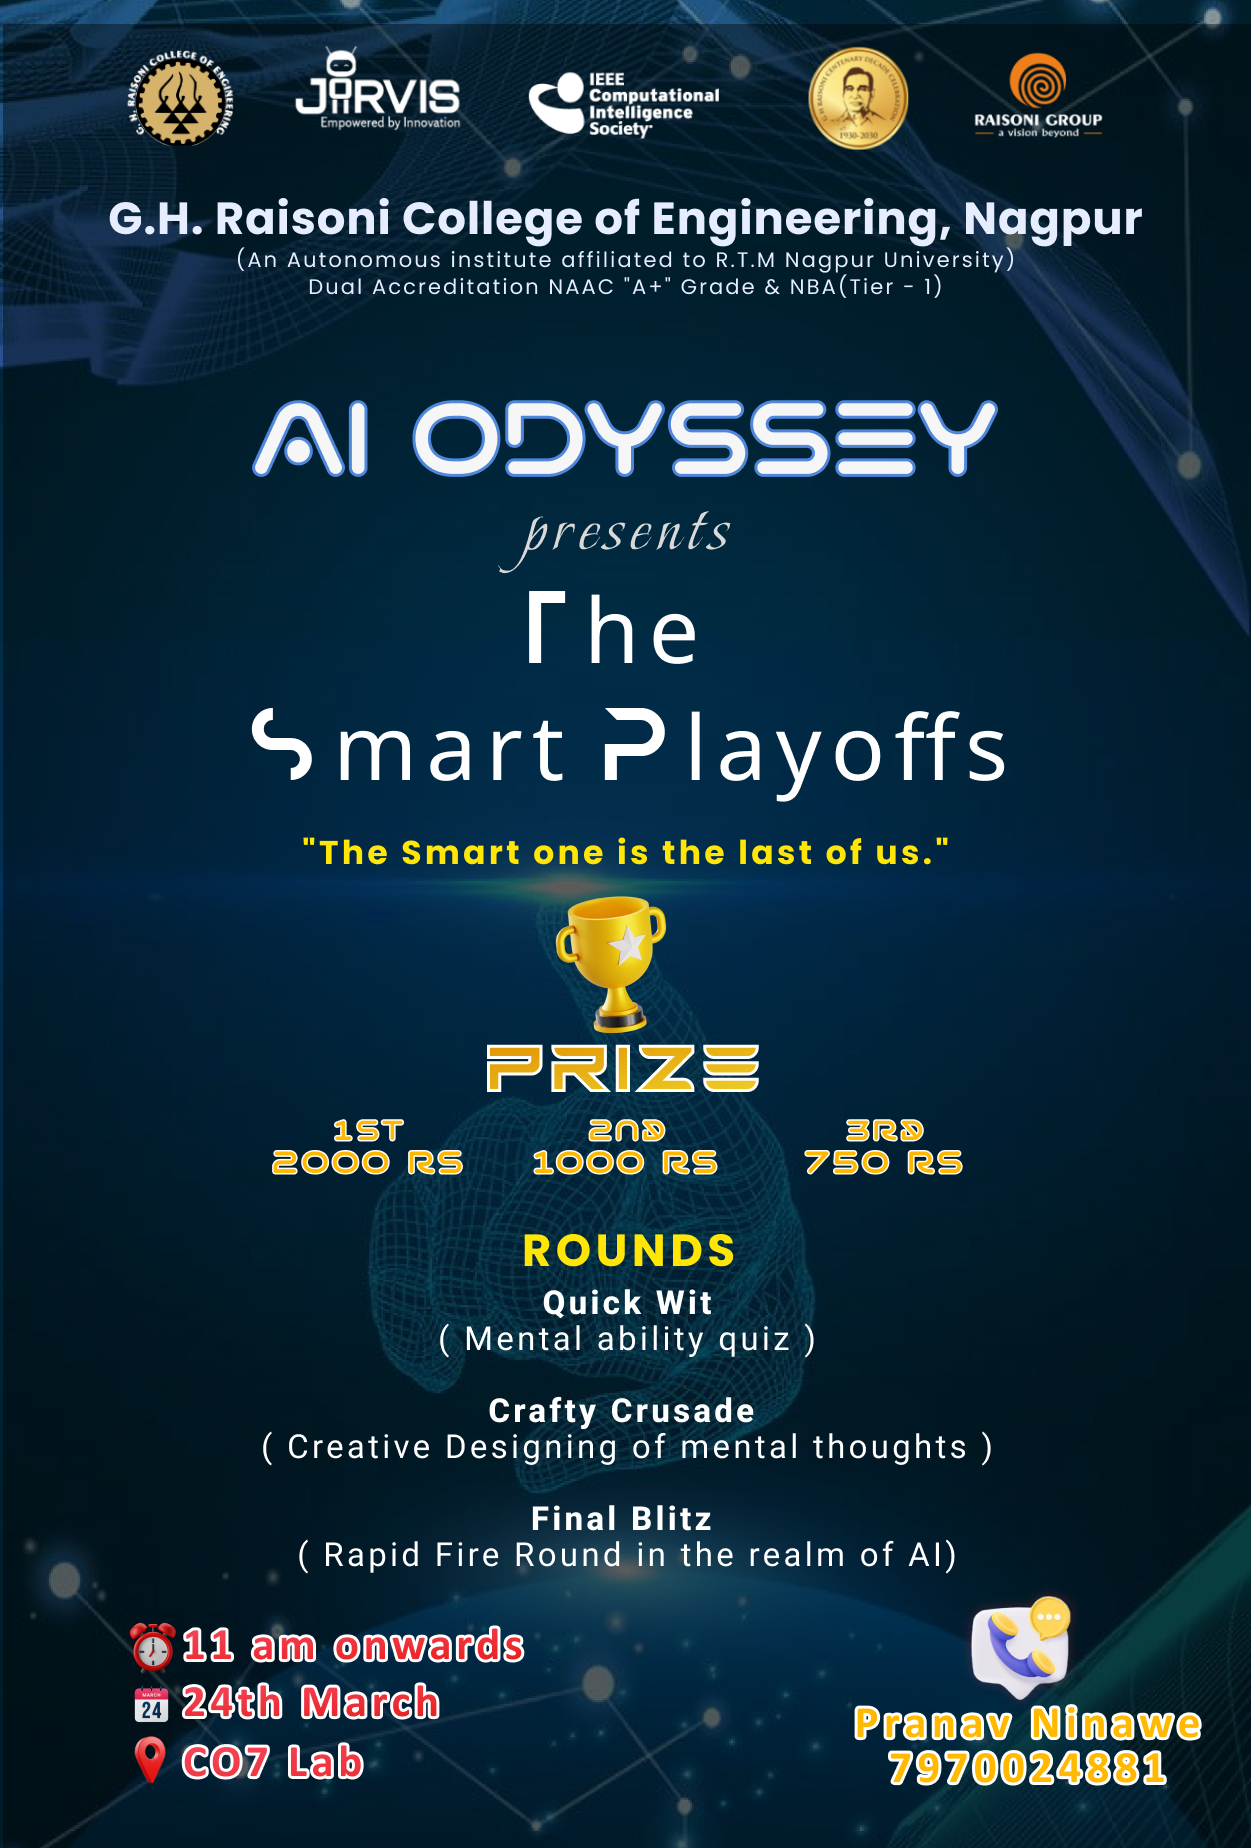
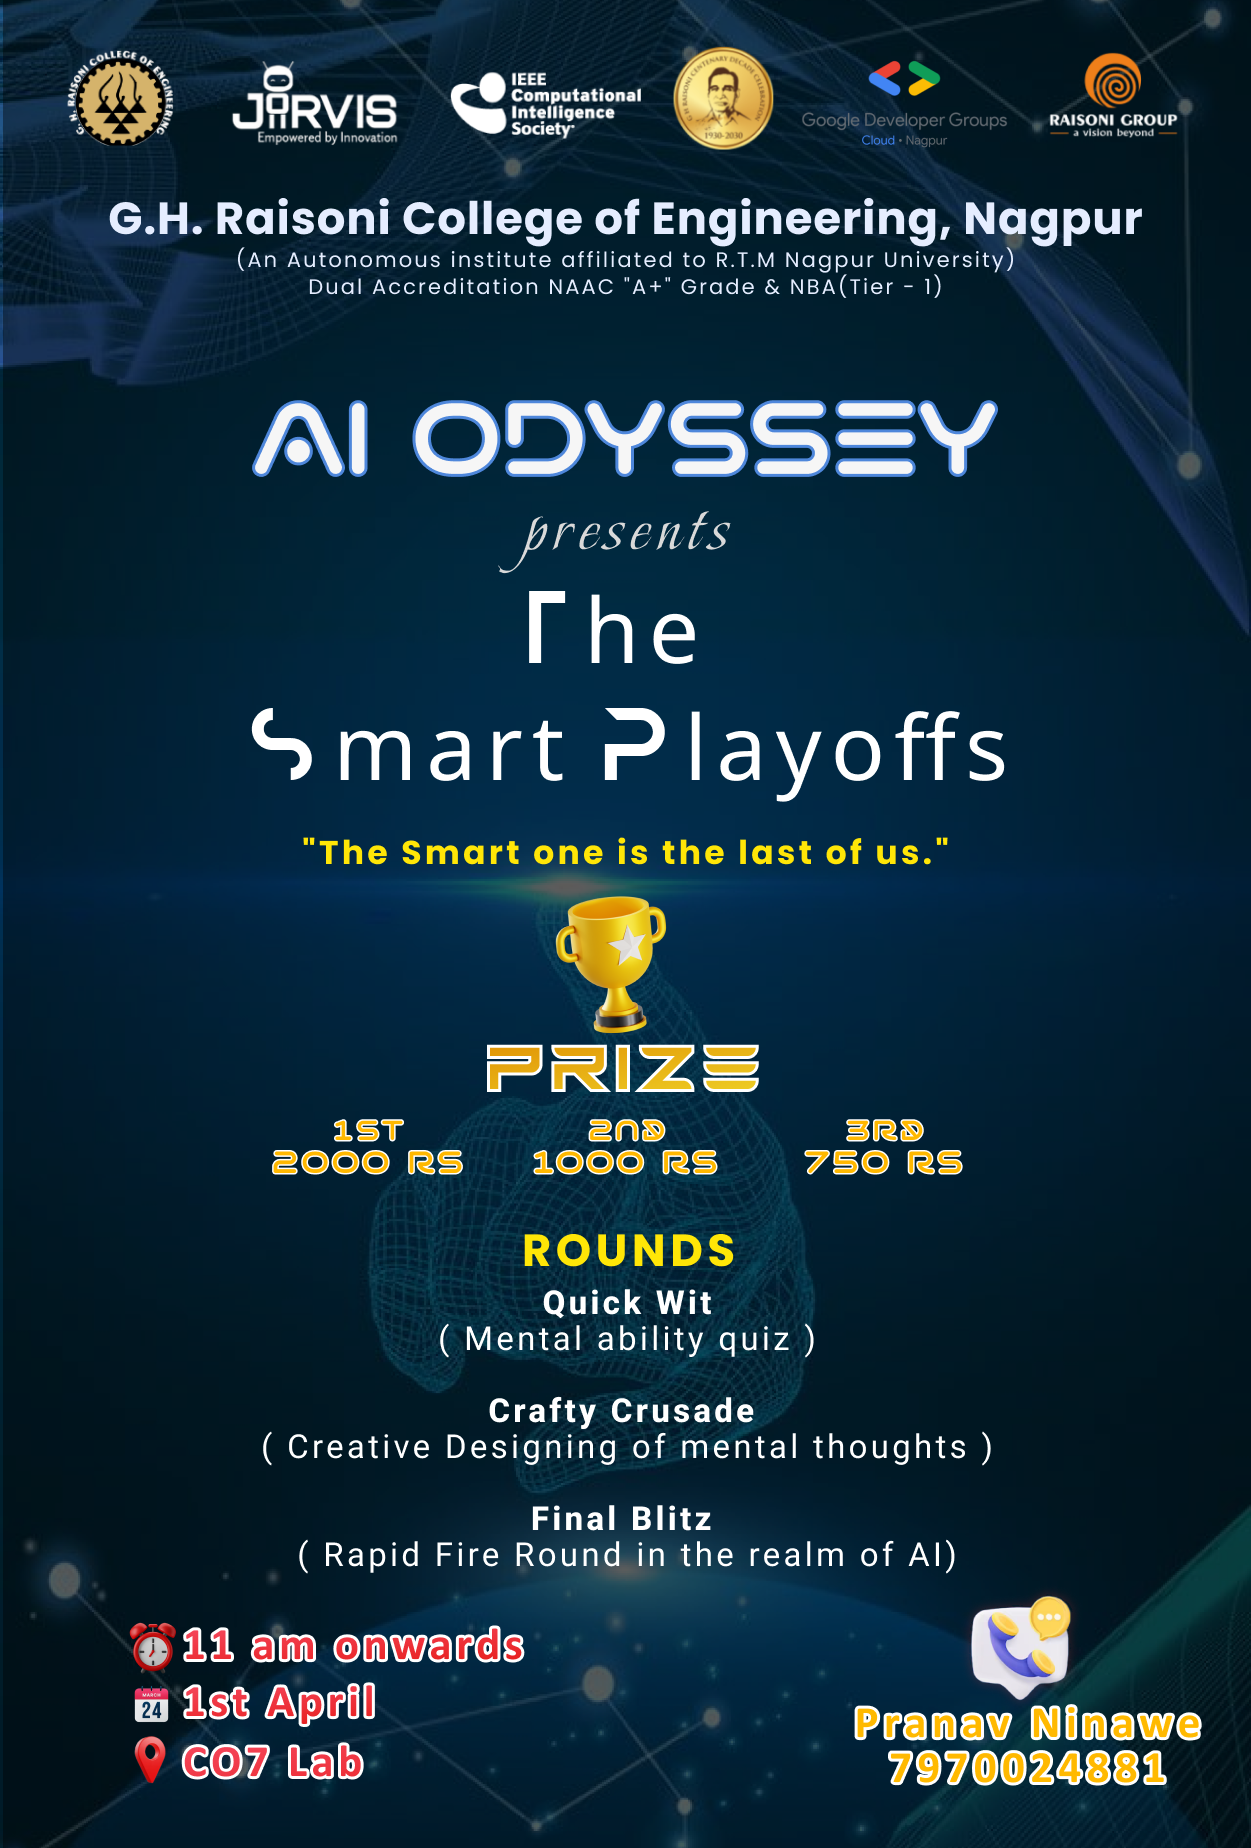
All tasks Done

diff --git a/src/Components/EventDetails.js b/src/Components/EventDetails.js
@@ -4,7 +4,7 @@ import styles from "../Assets/Styles/EventDetails.module.scss";
 import Heading from "./Heading";
 
 import treasurehunt from "../Assets/Images/Events/TreasureHunt.png";
-import aiwizard from "../Assets/Images/Events/AiWIzard.png";
+import aiwizard from "../Assets/Images/Events/AiWizard.png";
 import mindscape from "../Assets/Images/Events/Mindscape.jpeg";
 import smartplayoffs from "../Assets/Images/Events/SmartPlayofs.png";
 // import innovationjunction from "../Assets/Images/Events/InnovationJunction.mp4";
@@ -14,42 +14,42 @@ const EventsInfoData = [
     {
         id: 1,
         name: "Scan & Hunt",
-        desc: "Lorem ipsum dolor sit amet consectetur adipisicing elit. Autem quos culpa, totam voluptatibus rerum hic ea recusandae exercitationem, earum harum ex magni vitae provident suscipit, ipsam odio neque repudiandae! Cumque.",
+        desc: "Scan & Hunt is an intriguing game that wakes up the detective inside of you as you go on searching answers for the riddles.Each team of three to five members will compete with one another by unravelling the mystery inside of a QR code in three rounds adding more mystery and complexity than the previous rounds.",
         img: treasurehunt,
-        url: "https://drive.google.com/file/d/1-Ka_06a0kSDklvogjf-VdCYXeo9Cpxwm/view",
+        url: "",
     },
     {
         id: 1,
         name: "AI Wizard",
-        desc: "Lorem ipsum dolor sit amet consectetur adipisicing elit. Autem quos culpa, totam voluptatibus rerum hic ea recusandae exercitationem, earum harum ex magni vitae provident suscipit, ipsam odio neque repudiandae! Cumque.",
+        desc: "A wizard is the one who has magical powers. Are you the Dumbledore of AI? Let's find it out in our exciting game of AI Wizard. A member from each team will be competing with the other teams in three rounds ranging from their creativity in AI, their proficiency in AI, to their vision in AI.",
         img: aiwizard,
-        url: "https://onedrive.live.com/?authkey=%21AGls%2DbL39uUS1eQ&cid=4DFAFCD7B14B5170&id=4DFAFCD7B14B5170%211471&parId=4DFAFCD7B14B5170%211466&o=OneUp",
+        url: "",
     },
     {
         id: 1,
         name: "Mindscape",
-        desc: "Lorem ipsum dolor sit amet consectetur adipisicing elit. Autem quos culpa, totam voluptatibus rerum hic ea recusandae exercitationem, earum harum ex magni vitae provident suscipit, ipsam odio neque repudiandae! Cumque.",
+        desc: "The most inquisitive competition that will electrify your inventive minds with mind twisting quizzes is here. Each team consisting of three to four members will compete against each other in this competition which will be held in three rounds with each round more exciting and challenging than the previous one.",
         img: mindscape,
         url: "",
     },
     {
         id: 1,
         name: "Smart Playoffs",
-        desc: "Lorem ipsum dolor sit amet consectetur adipisicing elit. Autem quos culpa, totam voluptatibus rerum hic ea recusandae exercitationem, earum harum ex magni vitae provident suscipit, ipsam odio neque repudiandae! Cumque.",
+        desc: "Darwin’s theory about survival of the fittest also applies in the tech world where the smartest one is the last of us. The Smart Playoffs is a virtual ethical implication of AI in humans. In this valiant battle get ready to sharpen your mental ability and problem solving skills, followed by a creative brainstorm showing your photographic and designing skills and then a  rapid fire round involving the latest trends in the field of AI.",
         img: smartplayoffs,
         url: "",
     },
     {
         id: 1,
         name: "Innovation Junction",
-        desc: "Lorem ipsum dolor sit amet consectetur adipisicing elit. Autem quos culpa, totam voluptatibus rerum hic ea recusandae exercitationem, earum harum ex magni vitae provident suscipit, ipsam odio neque repudiandae! Cumque.",
+        desc: "Introducing Innovation Junction, the game that promises to unlock your creativity and imagination like never before! Get ready to generate game-changing ideas and tap into your inner innovator with this ultimate idea-generation experience. In this fast-paced game, players will be challenged to come up with innovative solutions to a variety of prompts and scenarios, from business challenges to social issues and beyond. With each round, players will have a limited amount of time to brainstorm and pitch their ideas. ",
         img: treasurehunt,
         url: "",
     },
     {
         id: 1,
         name: "Go Algo",
-        desc: "Lorem ipsum dolor sit amet consectetur adipisicing elit. Autem quos culpa, totam voluptatibus rerum hic ea recusandae exercitationem, earum harum ex magni vitae provident suscipit, ipsam odio neque repudiandae! Cumque.",
+        desc: "This competition is for anyone with a passion for programming and are ready to unleash their programming prowess and take on the ultimate challenge in our thrilling algorithm game! The competition is divided into three rounds where shuffled steps of the algorithm will be provided and one teammate must correct the sequence while the others complete the code. It's a race against the clock, and teamwork is the key to success!",
         img: goalgo,
         url: "",
     },
@@ -57,7 +57,7 @@ const EventsInfoData = [
 
 const EventDetails = () => {
     return (
-        <div id="events" className={styles.eventDetailsRoot}>
+        <div className={styles.eventDetailsRoot}>
             <Heading backText="Events">Events</Heading>
 
             <div className={styles.eventsDetailsMain}>

diff --git a/src/Components/Trailer.js b/src/Components/Trailer.js
@@ -17,15 +17,14 @@ const Trailer = () => {
         <div className={classes.rootTrailer}>
             <div className={classes.videoAndDatetime}>
                 <iframe
-                    data-aos="fade-up"
-                    // width="560"
-                    // height="315"
-                    src="https://www.youtube.com/embed/Gv2beqTqFNA"
+                    width="560"
+                    height="315"
+                    src="https://www.youtube.com/embed/FGJPiPmD2yo"
                     title="YouTube video player"
                     frameborder="0"
                     allow="accelerometer; autoplay; clipboard-write; encrypted-media; gyroscope; picture-in-picture; web-share"
                     allowfullscreen
-                />
+                ></iframe>
 
                 <div className={classes.datetimeContainer} data-aos="fade-up">
                     <div className={classes.eventMetas}>
@@ -81,7 +80,9 @@ const Trailer = () => {
                                 />
                             </svg>
                             <div>
-                                <p>3rd Floor, F-21, G.H.R.C.E. Nagpur</p>
+                                <p>
+                                    G.H. Raisoni College of Engineering Nagpur
+                                </p>
                             </div>
                         </div>
                     </div>

diff --git a/src/Assets/Styles/Presenters.module.scss b/src/Assets/Styles/Presenters.module.scss
@@ -40,6 +40,15 @@
             }
         }
 
+        .coe {
+            display: block;
+
+            img {
+                height: auto;
+                width: 100px;
+                margin: 30px;
+            }
+        }
         .ieee {
             display: block;
 
@@ -88,6 +97,46 @@
             //     height: auto;
             //     margin: 20px;
             // }
+
+            .ghrce {
+                display: block;
+
+                img {
+                    width: 100px;
+                    height: auto;
+                    margin: 30px;
+                }
+            }
+
+            .rgi {
+                display: block;
+
+                img {
+                    height: 85px;
+                    width: auto;
+                    margin: 30px;
+                }
+            }
+
+            .coe {
+                display: block;
+
+                img {
+                    height: auto;
+                    width: 100px;
+                    margin: 30px;
+                }
+            }
+
+            .ieee {
+                display: block;
+
+                img {
+                    height: 50px;
+                    width: auto;
+                    margin: 30px;
+                }
+            }
 
             .jarvis {
                 img {

diff --git a/src/Assets/Styles/Trailer.module.scss b/src/Assets/Styles/Trailer.module.scss
@@ -184,13 +184,34 @@
             display: flex;
             flex-direction: column;
             justify-content: space-between;
-            align-items: center;
+            // align-items: flex-start;
             padding-bottom: 50px;
 
             iframe {
+                // margin-left: 30px;
+                // padding-left: 20px;
                 width: 330px;
                 height: 186px;
                 margin-bottom: 30px;
+            }
+
+            .datetimeContainer {
+                // margin-left: 16px;
+                .eventMetas {
+                    padding: 0px;
+                    .date,
+                    .time,
+                    .venue {
+                        padding: 2px;
+                        svg {
+                            width: 20px;
+                        }
+
+                        p {
+                            font-size: 12px;
+                        }
+                    }
+                }
             }
         }
 

diff --git a/src/Components/Presenters.js b/src/Components/Presenters.js
@@ -8,6 +8,7 @@ import rgi from "../Assets/Images/Logos/RGi.png";
 import ieee from "../Assets/Images/Logos/IEEE_CIS_logo_White.png";
 import jarvis from "../Assets/Images/Logos/JARVIS.png";
 import gdgc from "../Assets/Images/Logos/GDGC.png";
+import coe from "../Assets/Images/Logos/coeaiml.png";
 
 import classes from "../Assets/Styles/Presenters.module.scss";
 
@@ -20,6 +21,9 @@ const Presenters = () => {
                 </div>
                 <div className={classes.rgi}>
                     <img src={rgi} />
+                </div>
+                <div className={classes.coe}>
+                    <img src={coe} />
                 </div>
                 <div className={classes.ieee}>
                     <img src={ieee} />

diff --git a/src/Components/Timeline_Day2.js b/src/Components/Timeline_Day2.js
@@ -54,8 +54,9 @@ const Timeline_Day2 = () => {
                     >
                         <h3>Panel Discussion</h3>
                         <p>
-                            Take a break during lunchtime to relax and
-                            rejuvenate before returning to your activities.
+                            The Panel Discussion would involve a group of
+                            experts exchanging their insights and views on the
+                            growth of AI with the audiences.
                         </p>
                     </li>
                     <li

diff --git a/src/Components/LoadinScreen.js b/src/Components/LoadinScreen.js
@@ -5,13 +5,13 @@ import classes from "../Assets/Styles/LoadingScreen.module.scss";
 function LoadingScreen() {
     const names = ["AI Odyssey", "Workshops", "Games", "Power Talks", "Fun"];
     const [index, setIndex] = useState(0);
-    const [loading, setLoading] = useState(false);
+    const [loading, setLoading] = useState(true);
 
     useEffect(() => {
         // Simulate data loading with a timeout
         const timeoutId = setTimeout(() => {
             setLoading(false);
-        }, 3000);
+        }, 2500);
 
         return () => clearTimeout(timeoutId);
     }, []);

diff --git a/src/Components/Speakers.js b/src/Components/Speakers.js
@@ -39,7 +39,7 @@ const SpeakersList = [
 
 const Speakers = () => {
     return (
-        <div id="speakers" className={styles.speakersRoot}>
+        <div className={styles.speakersRoot}>
             <Heading backText="Speakers">Speakers</Heading>
 
             <div className={styles.speakersContainer}>
@@ -73,6 +73,7 @@ const Speakers = () => {
                     );
                 })}
             </div>
+            <div id="events"></div>
         </div>
     );
 };

diff --git a/src/Components/Events.js b/src/Components/Events.js
@@ -18,7 +18,7 @@ const Events = () => {
     };
 
     return (
-        <div id="timeline" className={classes.rootEvents}>
+        <div className={classes.rootEvents}>
             <Heading backText="Time Line">Time Line</Heading>
 
             <div className={classes.buttons}>
@@ -36,6 +36,7 @@ const Events = () => {
             </div>
 
             {show ? <Timeline_Day2 /> : <Timeline_Day1 />}
+            <div id="speakers"></div>
         </div>
     );
 };

diff --git a/src/Assets/Styles/EventDetails.module.scss b/src/Assets/Styles/EventDetails.module.scss
@@ -60,10 +60,12 @@
                     align-items: center;
 
                     background-color: #00000080;
+                    backdrop-filter: blur(2px);
                 }
 
                 .eventDescription {
                     background-color: #00000099;
+                    backdrop-filter: blur(2px);
 
                     position: absolute;
                     top: 0;

diff --git a/src/Assets/Styles/AnimatedLanding.module.scss b/src/Assets/Styles/AnimatedLanding.module.scss
@@ -133,7 +133,11 @@
             .contentWrapper {
                 .imageText {
                     .line2 {
-                        font-size: 28px;
+                        font-size: 32px;
+                    }
+
+                    .line3 {
+                        font-size: 15px;
                     }
                 }
             }

diff --git a/src/Assets/Styles/Header.module.scss b/src/Assets/Styles/Header.module.scss
@@ -9,7 +9,7 @@
     position: fixed;
     top: 0;
 
-    z-index: 10000000000000000;
+    z-index: 100;
     display: flex;
     flex-direction: row;
     justify-content: center;
